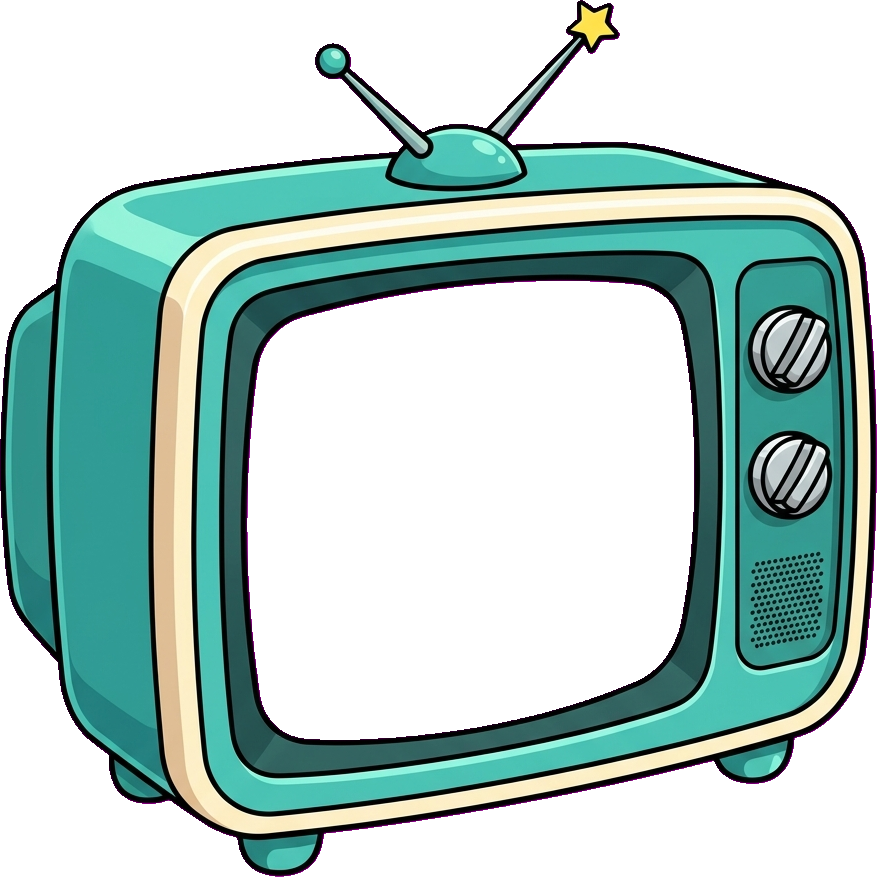
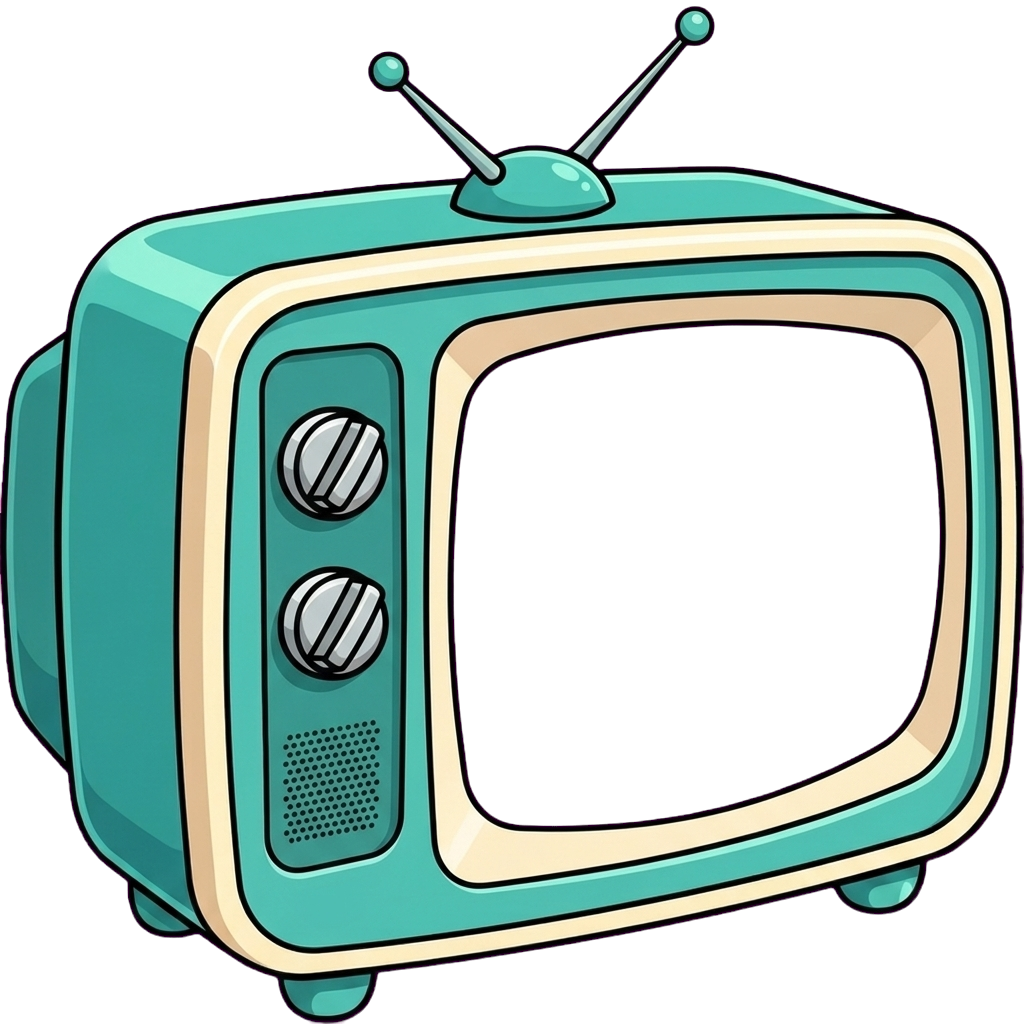
TV now faces left toward the stage with the knobs and speaker grille on the right, antenna has plain ball tips (no star), and the screen content sits inside the new cutout. Both the Play gate angle fix and the TV update are live on the Plaza.
Emergent-Commit-Key: f42891d9b3c8f50bf36b4d319d74d9ec40ab4324a65f2d5244259e6ffc3ead98

diff --git a/frontend/src/pages/CampusMapPage.js b/frontend/src/pages/CampusMapPage.js
@@ -118,7 +118,7 @@ function DriveIn({ live }) {
   const featured = useMemo(() => pickFeaturedEpisode(), []);
   const previewSrc = featured ? `https://player.vimeo.com/video/${featured.vimeoId}?autoplay=1&loop=1&muted=1&background=1&controls=0&app_id=122963&title=0&byline=0&portrait=0&dnt=1` : null;
   // Screen hole of assets/plaza/crt-tv.png (transparent in the art), as % of the square image. TV art is mirrored to face the stage.
-  const screen = { left: '21.1%', top: '32%', width: '50.7%', height: '52.2%' };
+  const screen = { left: '8.8%', top: '32.3%', width: '46.5%', height: '47.8%' };
   return (
     <div className="relative w-full flex items-end justify-center" style={{ height: '100%' }} data-testid="plaza-drive-in">
       <div className="relative" style={{ width: '100%', aspectRatio: '1 / 1' }}>
